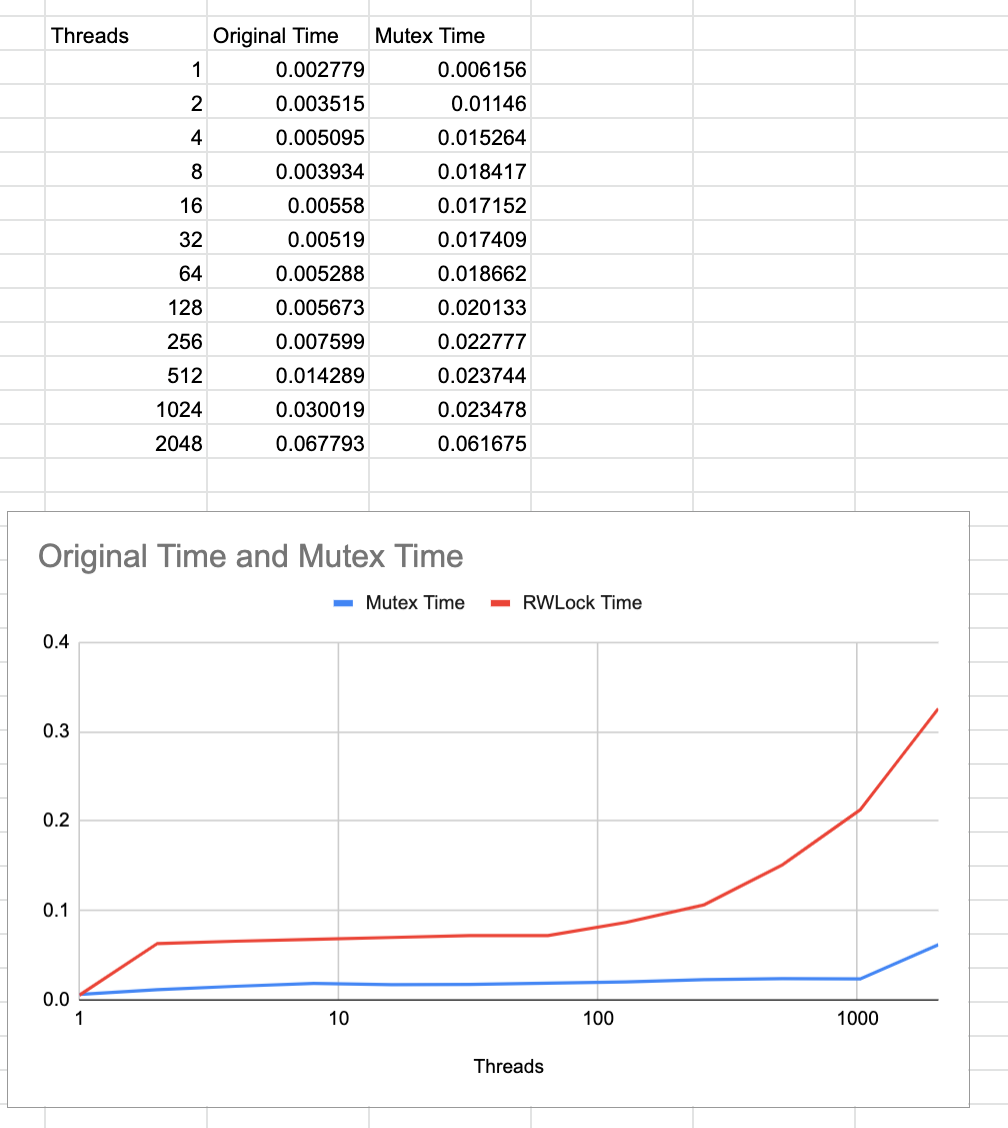
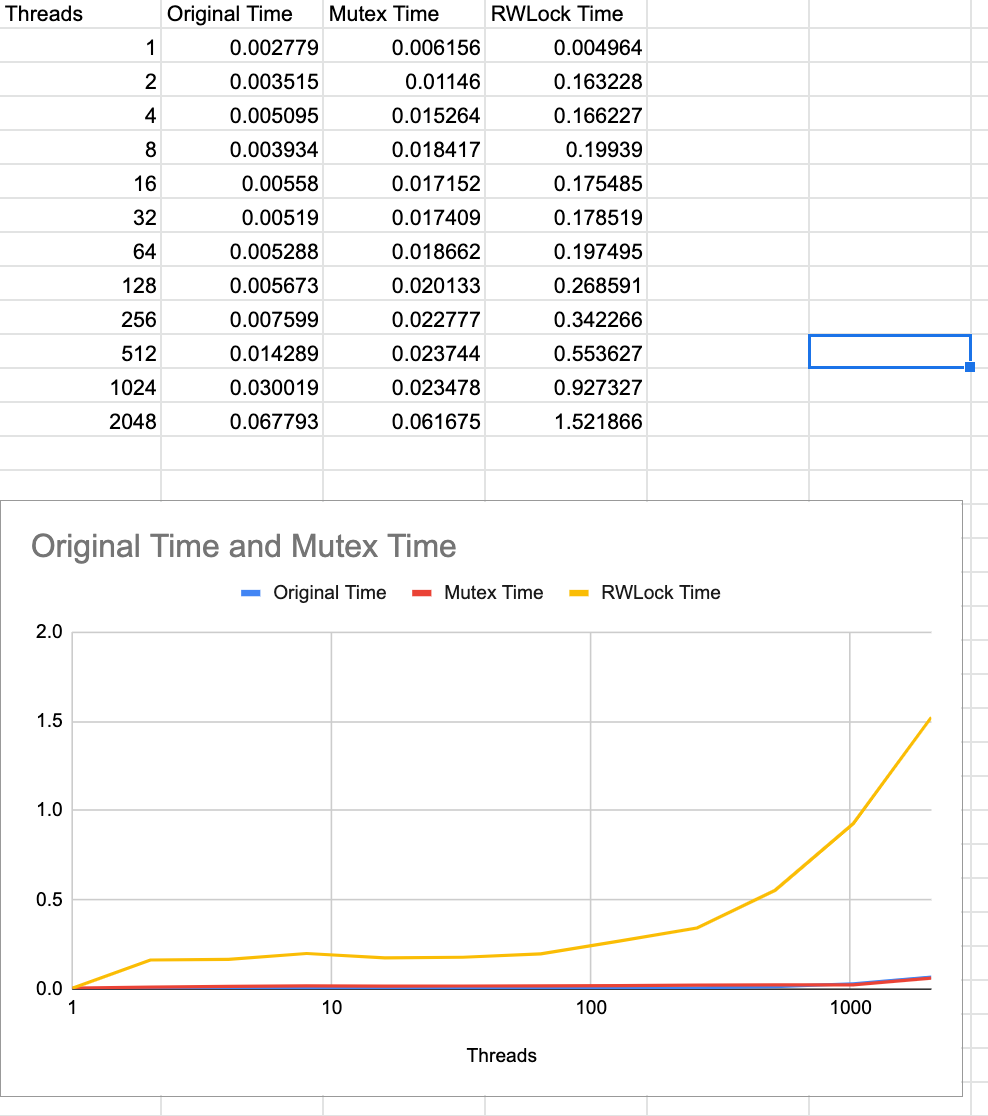
Part 3 Tweaks

diff --git a/parallel_spin.c b/parallel_spin.c
@@ -9,7 +9,7 @@
 #define NUM_KEYS 100000   // Number of keys inserted per thread
 int num_threads = 1;      // Number of threads (configurable)
 int keys[NUM_KEYS];
-pthread_rwlock_t rwlock[NUM_BUCKETS];
+pthread_rwlock_t rwlock;
 
 typedef struct _bucket_entry {
   int key;
@@ -35,12 +35,12 @@ void insert(int key, int val) {
   int i = key % NUM_BUCKETS;
   bucket_entry *e = (bucket_entry *) malloc(sizeof(bucket_entry));
   if (!e) panic("No memory to allocate bucket!");
-  pthread_rwlock_wrlock(&rwlock[i]);
+  pthread_rwlock_wrlock(&rwlock);
   e->next = table[i];
   e->key = key;
   e->val = val;
   table[i] = e;
-  pthread_rwlock_unlock(&rwlock[i]);
+  pthread_rwlock_unlock(&rwlock);
 }
 
 // Retrieves an entry from the hash table by key
@@ -96,8 +96,7 @@ int main(int argc, char **argv) {
     keys[i] = random();
 
  // Initialize rwlock locks for all buckets
-  for (int i = 0; i < NUM_BUCKETS; i ++)
-        pthread_rwlock_init(&rwlock[i], NULL);
+  pthread_rwlock_init(&rwlock, NULL);
 
   threads = (pthread_t *) malloc(sizeof(pthread_t)*num_threads);
   if (!threads) {

diff --git a/README.md b/README.md
@@ -14,7 +14,7 @@ MacOS's command line tools don't include the original spinlock implementation (a
 
 We would expect spinlocks to operate more slowly than mutexes. If a thread hits a mutex lock, it will be put to sleep until woken up, which allows other threads to operate. A thread that hits a spinlock on the other hand will continuously retry until it finally succeeds, which continues consuming CPU resources and doesn't allow another thread to run.
 
-As you can see from our time results below, spinlocks operate much, much more slowly than mutexes- as soon as we have more than one thread they take longer. For 2 threads, this is nearly 20x the time of the original implementation (6x mutexes)
+As you can see from our time results below, spinlocks operate much, much more slowly than mutexes- as soon as we have more than one thread they take longer. For 16 threads, this is roughly 10x the time of the mutex implementation!
 
 ![Time Comparison](./screens/part_3_time_comparison.png)
 
